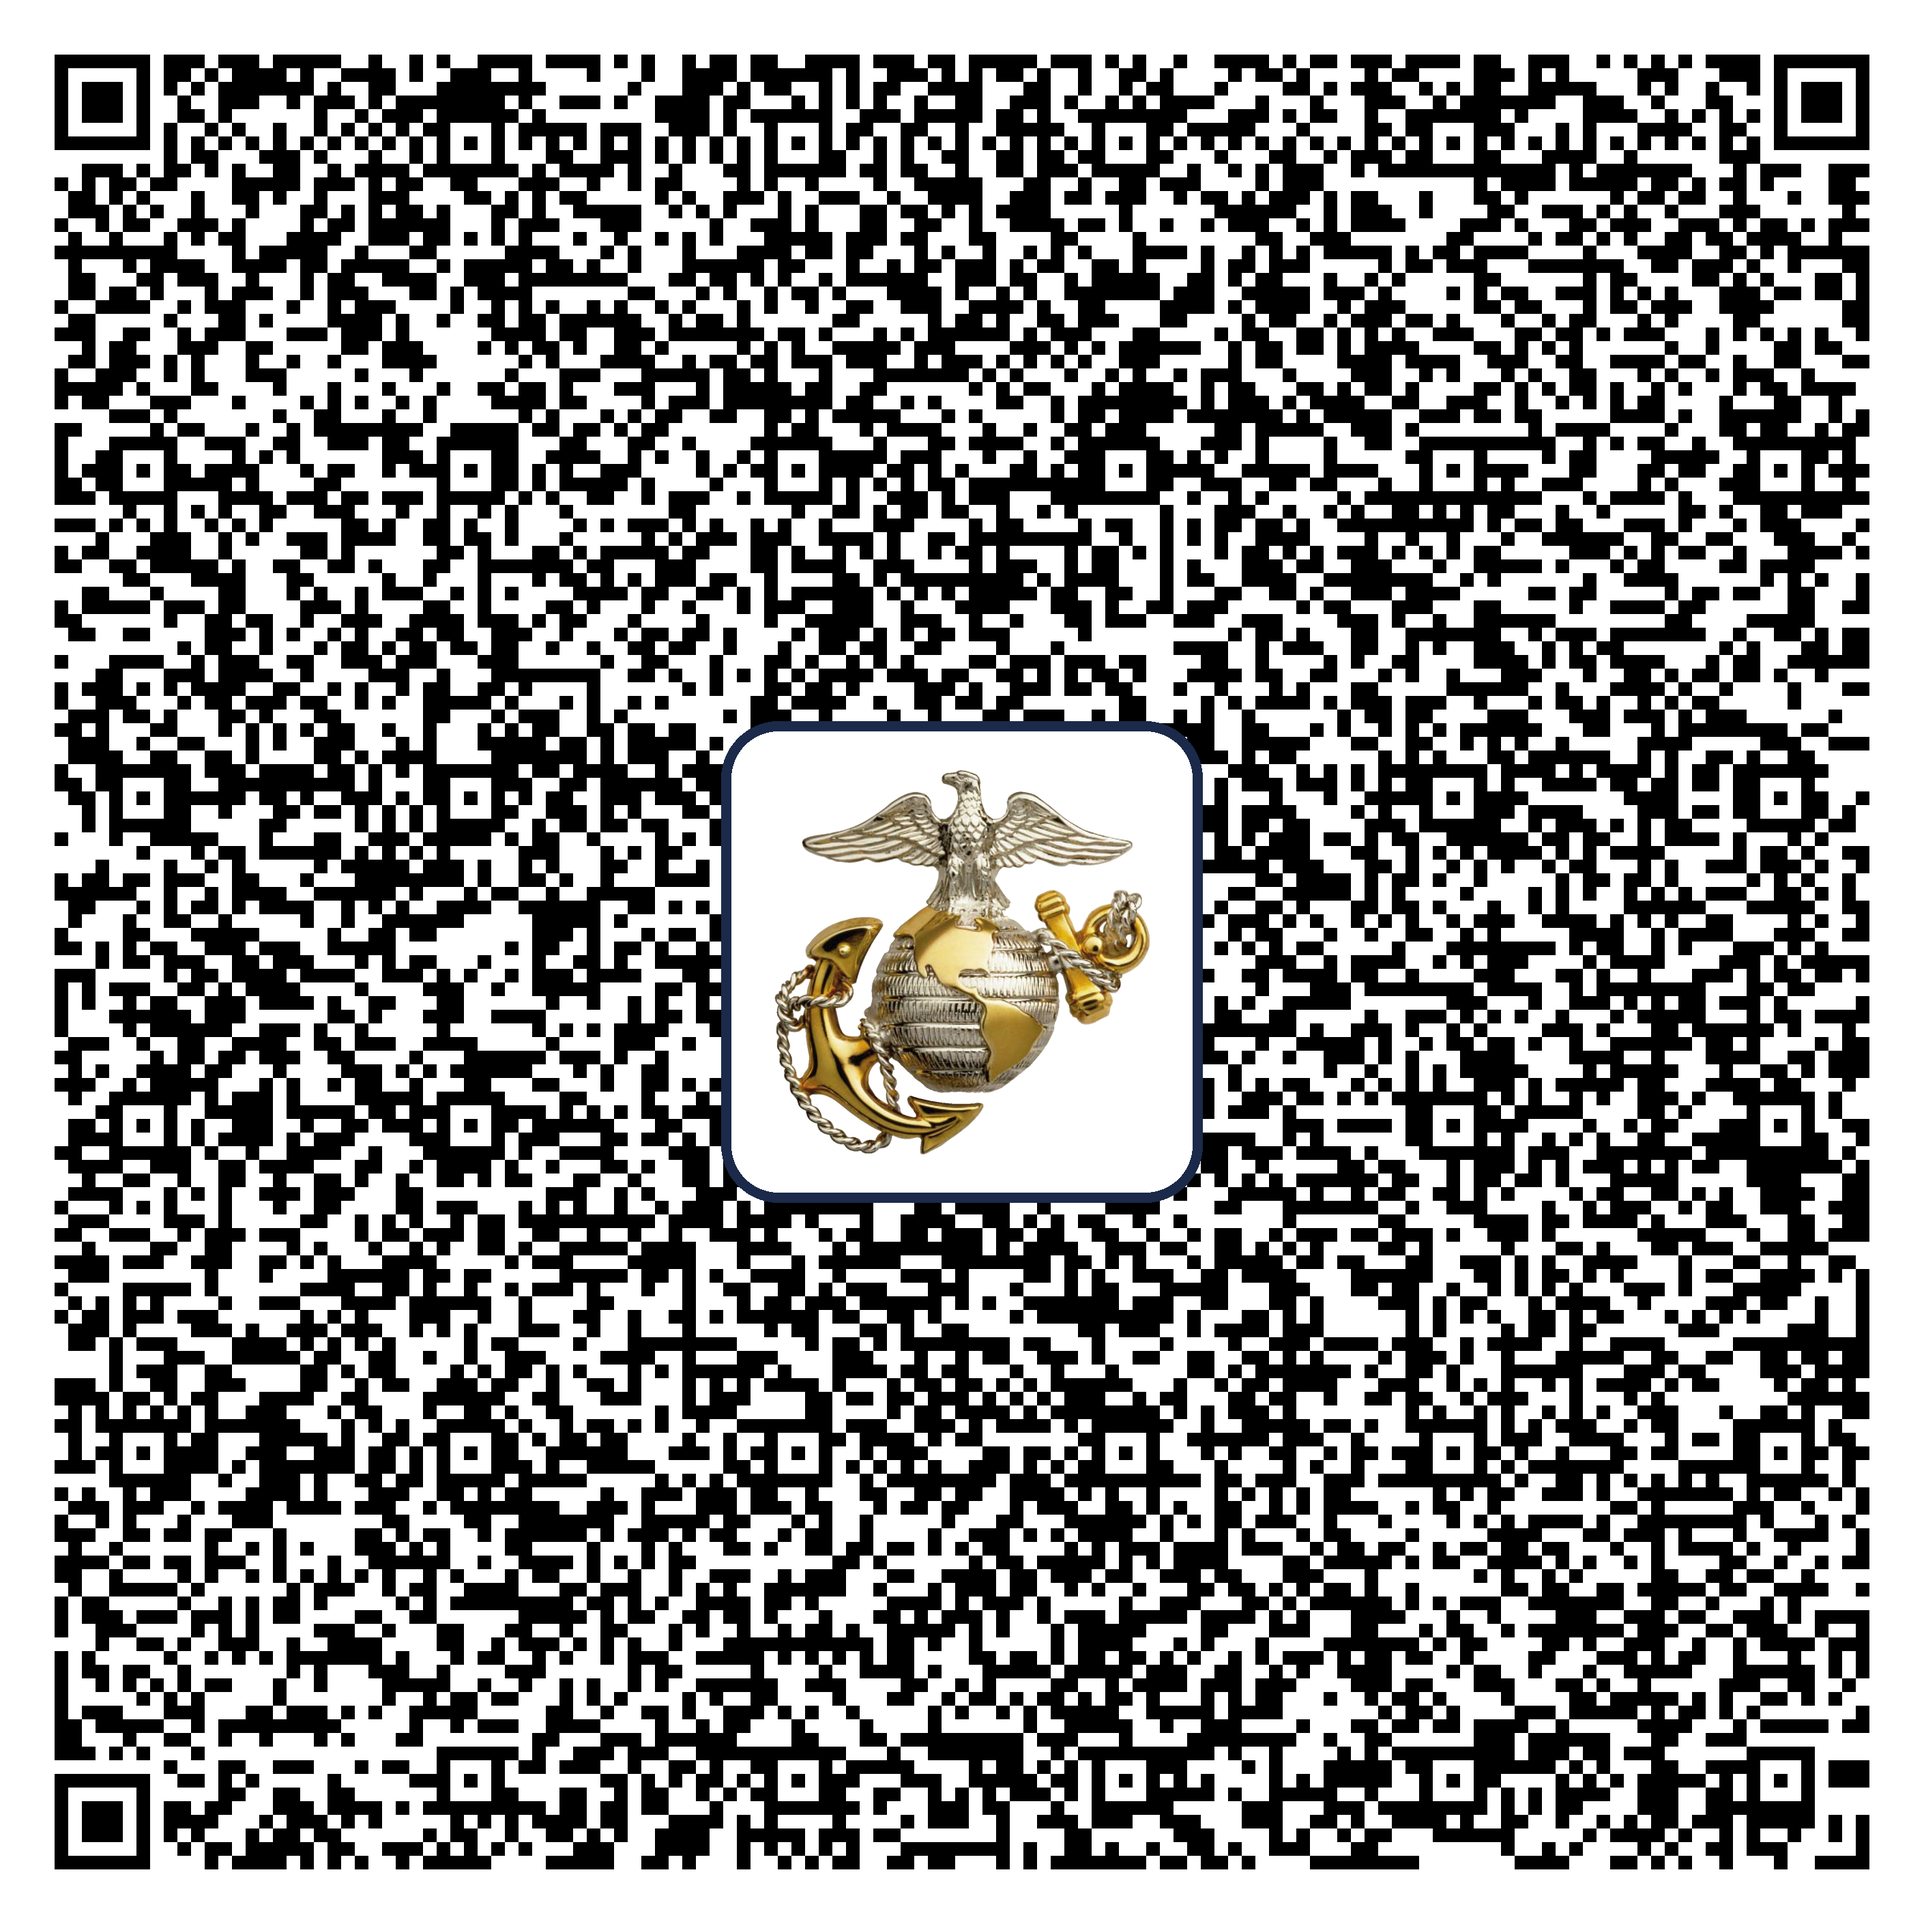
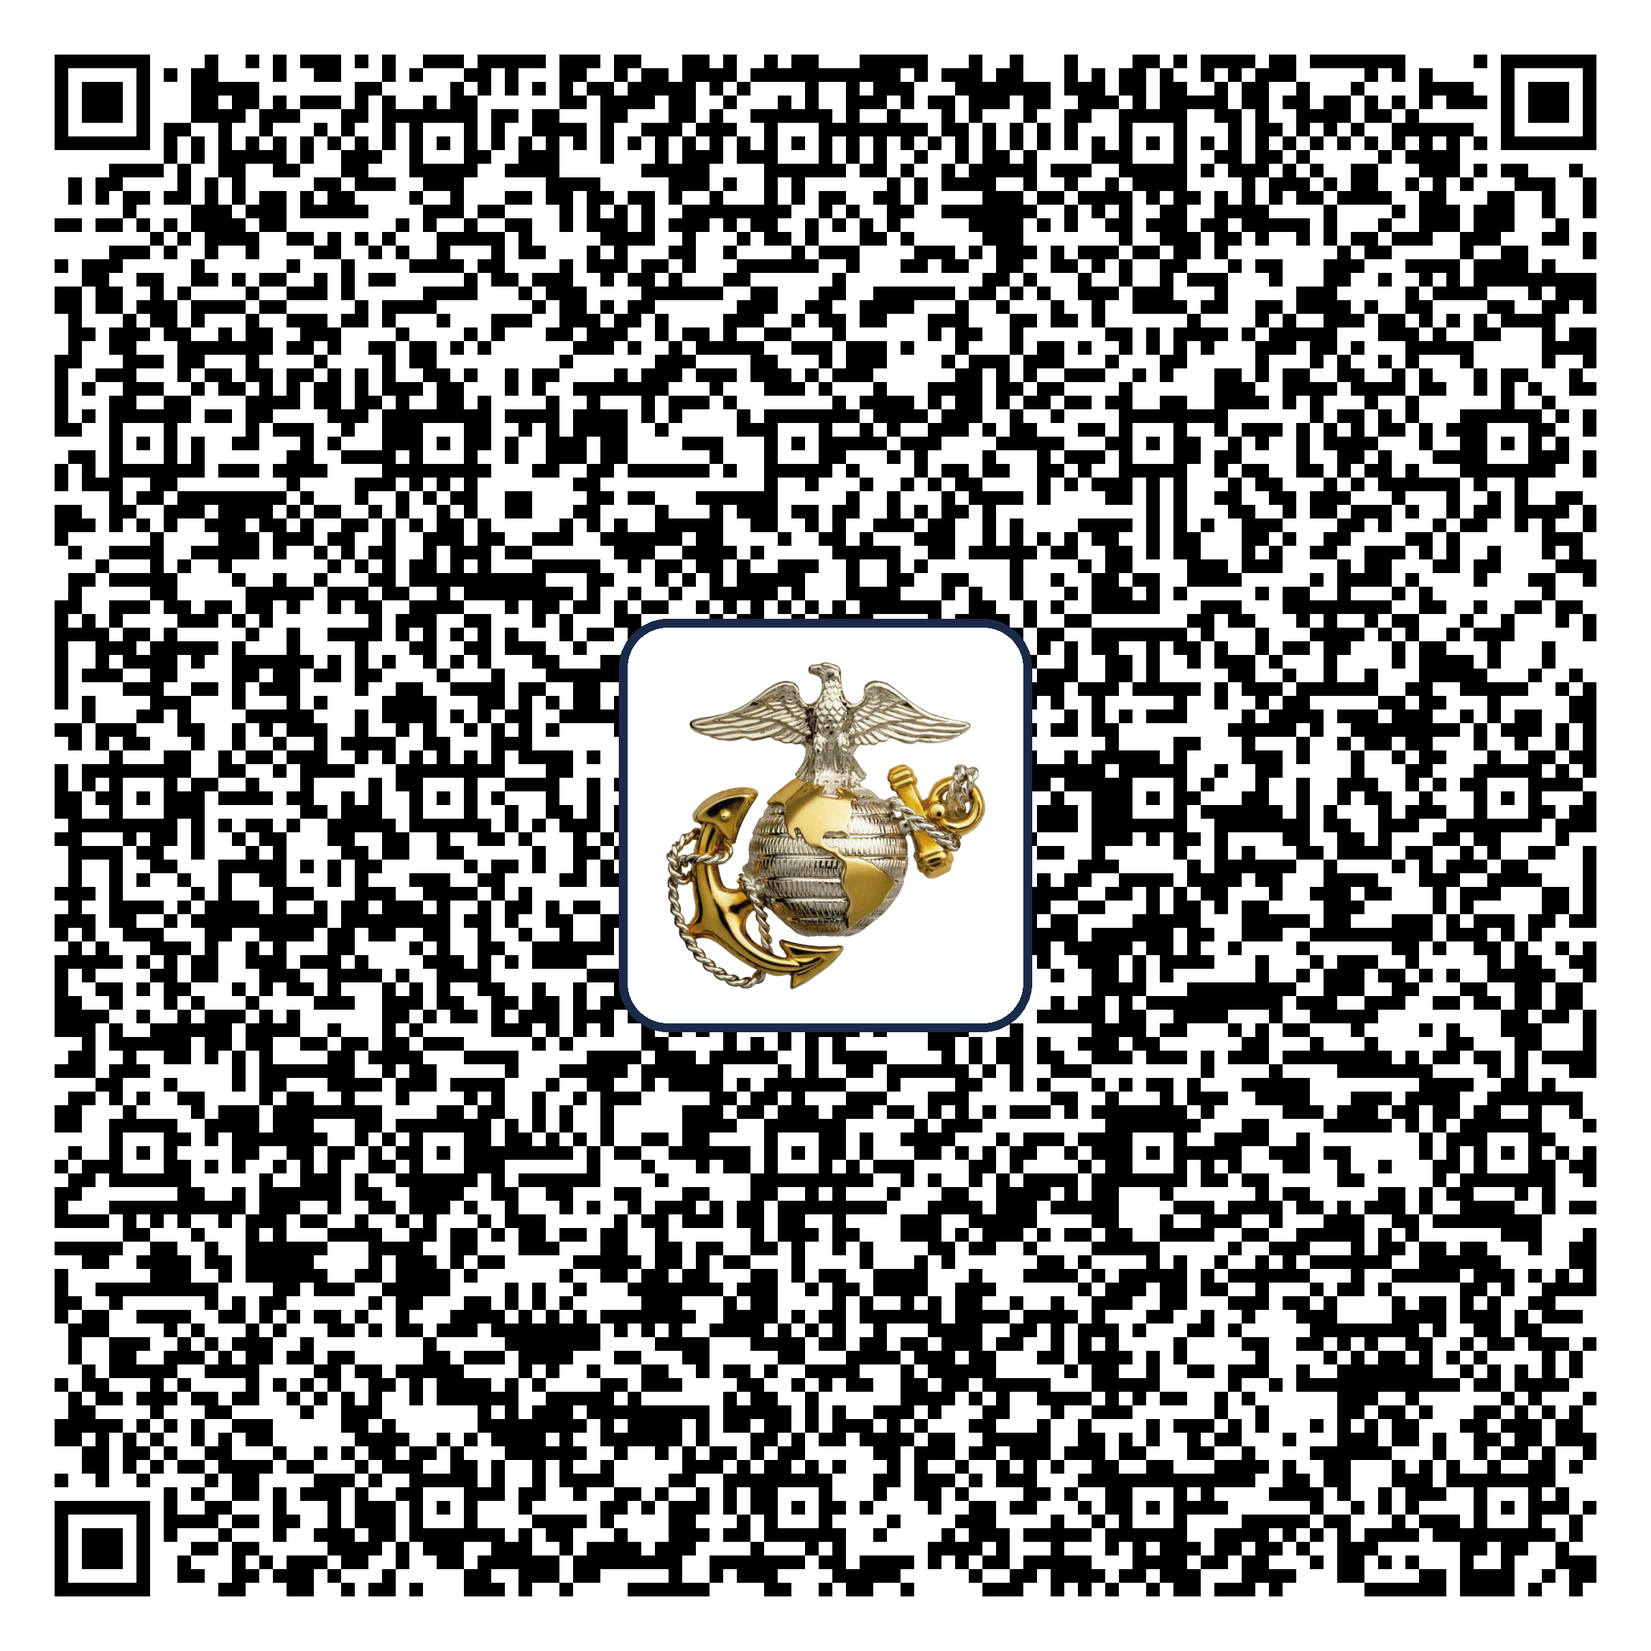
Remove hosting URL homepage from card vCards
Angelo: vCard/QR already clean since 6aa7332; bump SW to v3 to flush cached old vCard/QR on installed phones.
Javier: remove all URL: lines (hosting URL was shown as homepage; FB/IG duplicates kept as X-SOCIALPROFILE only), rebuild QR Level H with EGA center, bump SW to v3.

diff --git a/angelo-app/sw.js b/angelo-app/sw.js
@@ -1,4 +1,4 @@
-const CACHE = "angelo-legion359-v2";
+const CACHE = "angelo-legion359-v3";
 const ASSETS = [
   "./",
   "./index.html",

diff --git a/javier-app/sw.js b/javier-app/sw.js
@@ -1,4 +1,4 @@
-const CACHE = "javier-vfw7243-v2";
+const CACHE = "javier-vfw7243-v3";
 const ASSETS = [
   "./",
   "./index.html",
